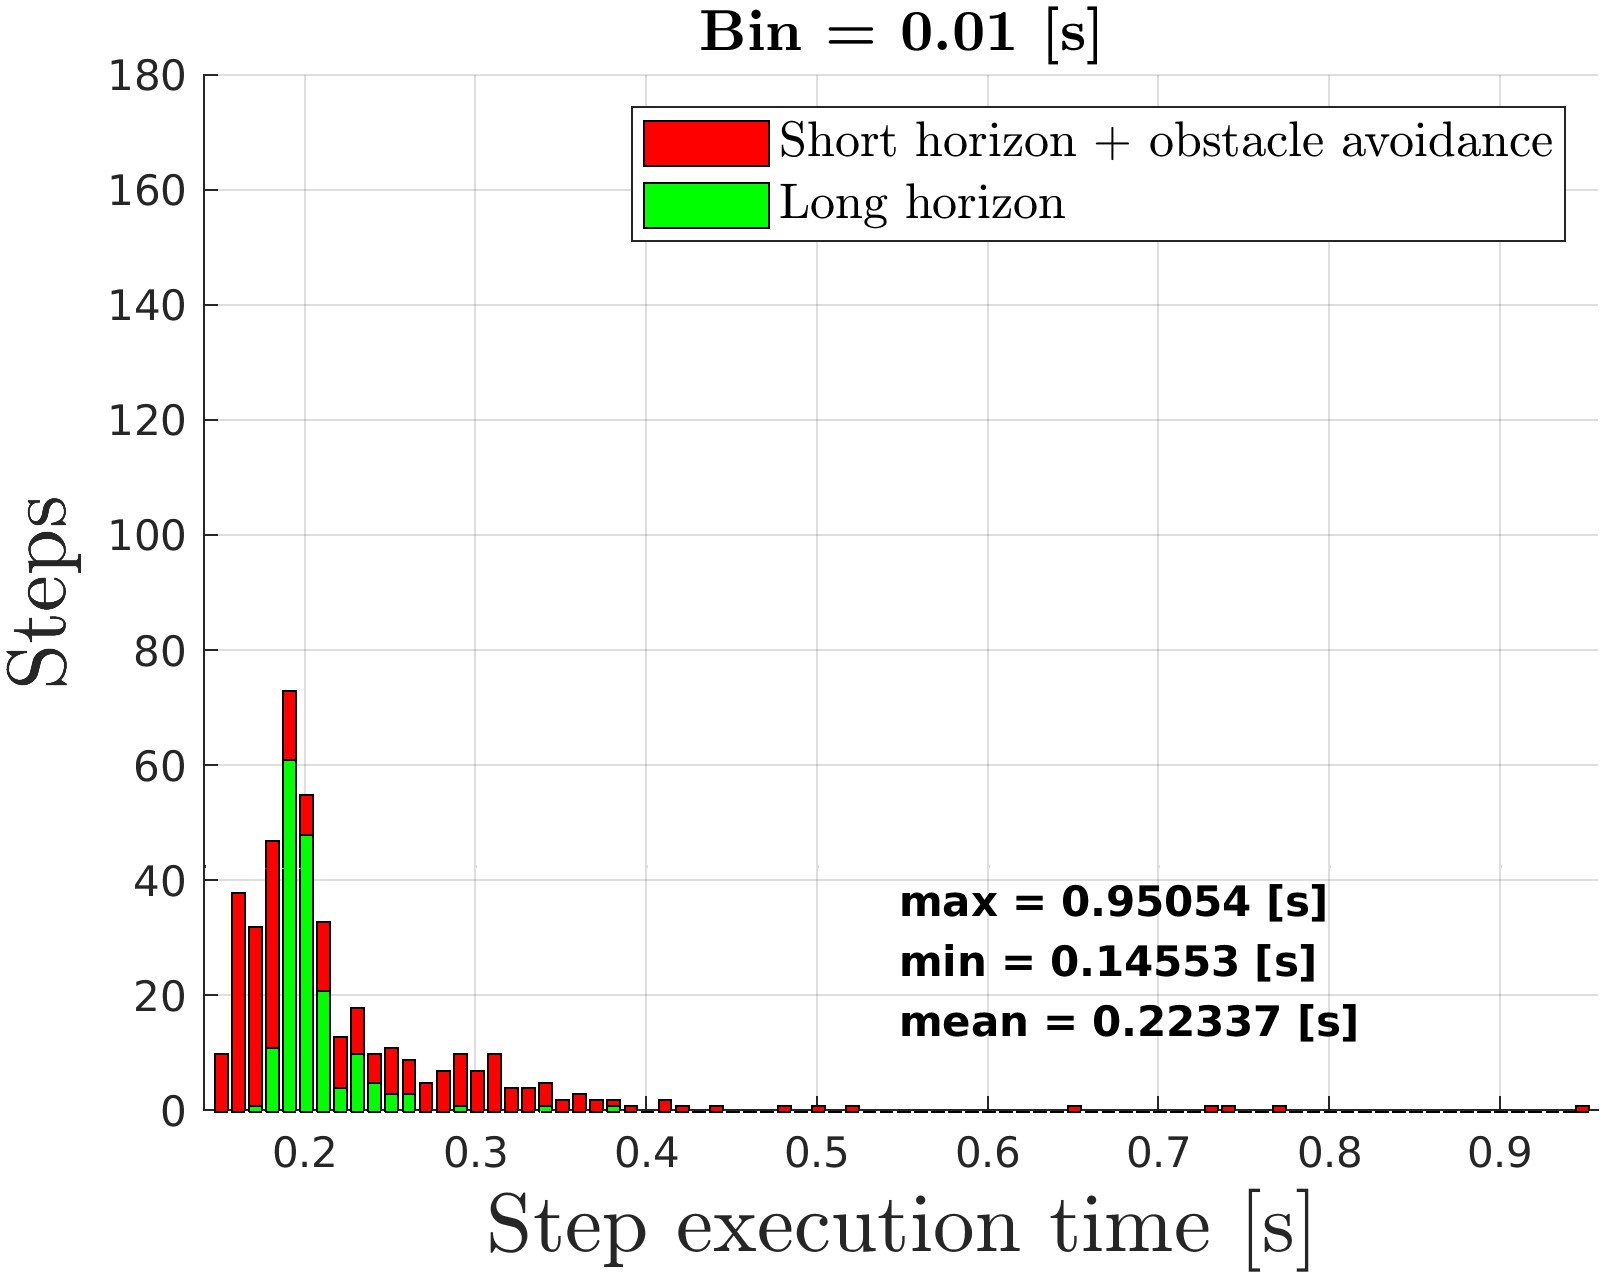
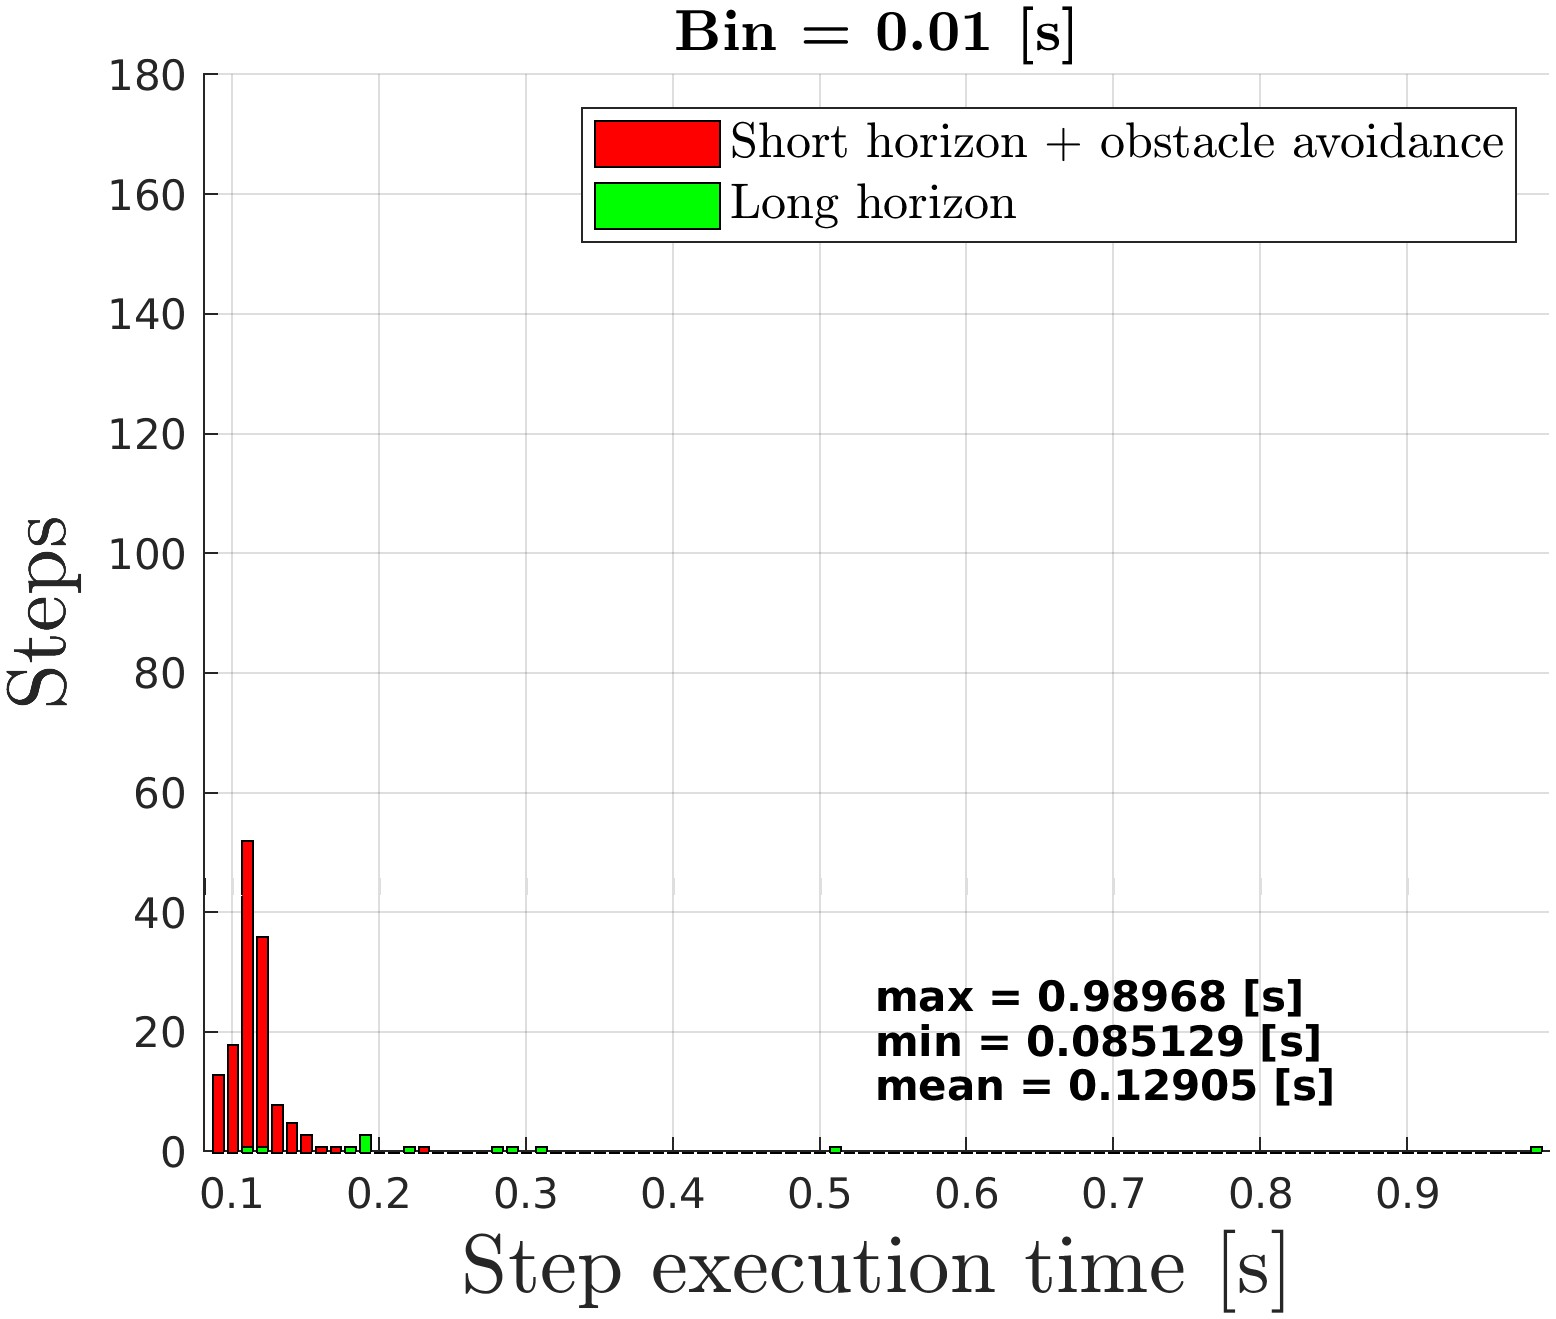
fix: compute correct minimum distance of the closest vertex to obstacle

diff --git a/MatlabCodes/dummy_sim.m b/MatlabCodes/dummy_sim.m
@@ -13,7 +13,7 @@ N_short = 5;
 N_long = 15;
 N_fixed = 20;
 
-env_name = "valzer"; % "no_obs", "two_obs", "three_obs", "valzer"
+env_name = "three_obs"; % "no_obs", "two_obs", "three_obs", "valzer"
 
 fprintf(['plotting=%d, alg_fmincon=%s, fixed_horizon=%d, sim_perception_range=%d, sim_noise=%d, ' ...
          'sigma_2=%.5f, eps_loose_grip=%.2f, N_short=%d, N_long=%d, N_fixed=%d, env_name=%s\n'], ...
